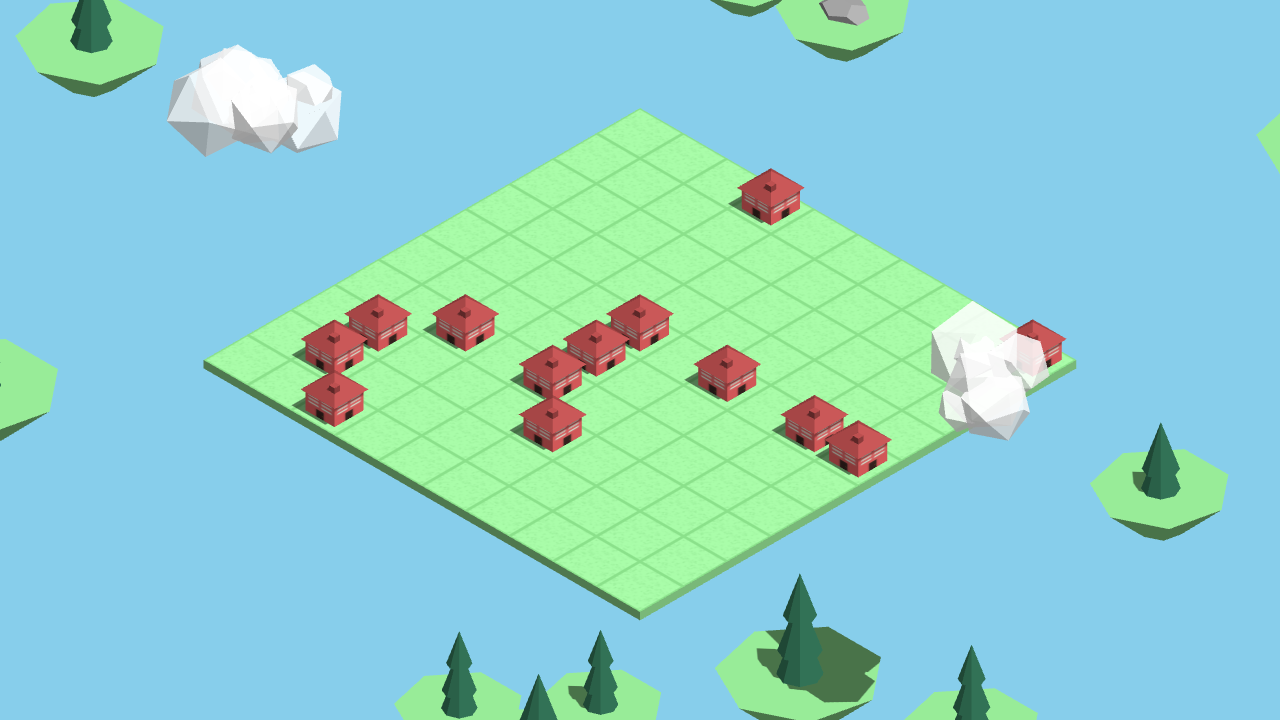
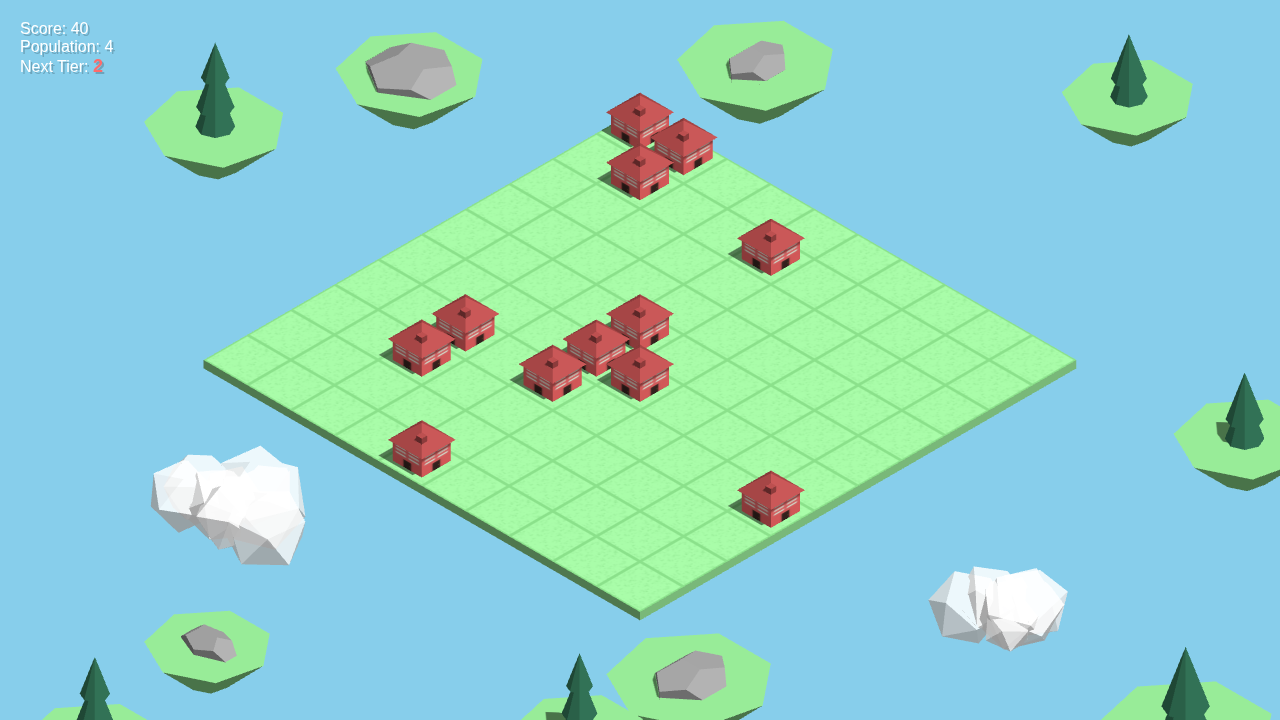
feat: Implement State-Guarded UI HUD
Implemented caching mechanism inside `updateUX()` in `main.js` to construct the HUD and inject it into `<div id="ui">`. This function is hooked into the `animate()` loop, providing an accessible and performant visual UI overlay that reflects the game state (Score, Population, Next Tier) without causing redundant repaints.

diff --git a/main.js b/main.js
@@ -1516,6 +1516,29 @@ function resetGame() {
 // Render Loop
 const clock = new THREE.Clock();
 
+let lastScore = -1;
+let lastPop = -1;
+let lastTier = -1;
+
+function updateUX() {
+    const uiElement = document.getElementById('ui');
+    if (!uiElement) return;
+
+    if (city.score !== lastScore || city.buildingCount !== lastPop || gameState.nextTier !== lastTier) {
+        lastScore = city.score;
+        lastPop = city.buildingCount;
+        lastTier = gameState.nextTier;
+
+        uiElement.innerHTML = `
+            <div aria-live="polite" aria-atomic="true">
+                <div>Score: ${lastScore}</div>
+                <div>Population: ${lastPop}</div>
+                <div>Next Tier: <span id="next-tier">${lastTier}</span></div>
+            </div>
+        `;
+    }
+}
+
 function animate() {
     requestAnimationFrame(animate);
 
@@ -1526,7 +1549,7 @@ function animate() {
     particleSystem.update(dt);
     cloudSystem.update(dt);
 
-    // Update UI
+    updateUX();
 
     renderer.render(scene, camera);
 }

diff --git a/.Jules/nova_paths.md b/.Jules/nova_paths.md
@@ -1,17 +1,21 @@
-# Phase 2: Architectural Approaches
+# Nova Architectural Paths: HUD Implementation (Forced Variance)
 
-## Problem 1: Phantom Buildings
-*Absorbed buildings remain logically in the grid during their 0.5s slide animation.*
+## Approach 1: State-Guarded Template Literal Injection (The Recommended Minimalist Path)
+**Concept:** Use a single state tracker variable to hold the last rendered values (score, population, nextTier). Inside the `animate()` loop, check if the current game state differs from the cached state. If so, update the `innerHTML` of the `<div id="ui">` with a single template literal containing the complete markup for Score, Population, and Next Tier.
+**Pros:**
+- Extremely simple (single DOM query, ~15 lines of code).
+- State-guarded optimization prevents redundant DOM repaints every frame (60fps).
+- Easily supports accessibility attributes (e.g., `aria-live`).
+**Cons:** Re-renders the entire `#ui` block rather than targeting individual text nodes.
 
-* **Path 1 (Standard):** Manually clear `city.grid[x][z]` and decrement `buildingCount` within the merge loop. Call `scene.remove()` upon animation completion. (Pros: Clear intent. Cons: Duplicates `city.remove` logic.)
-* **Path 2 (Minimalist - Selected):** Detach the mesh (`city.meshGrid[x][z] = null`) and immediately call `city.remove(x, z)`. This clears logical data synchronously but skips the default shrink animation, allowing the GSAP slide to play before `scene.remove()`. (Pros: Zero logic duplication, perfectly surgical.)
-* **Path 3 (Lateral):** Add `isMerging = true` to cell data. Filter out merging cells in all raycasting and game tick loops. (Pros: Preserves data until visually gone. Cons: Spreads state-checking logic across 4 different functions.)
+## Approach 2: Targeted DOM Node Initialization & Updates (Standard Path)
+**Concept:** During game initialization, fetch `<div id="ui">` and programmatically create and append individual HTML elements for Score (`<span id="score">`), Population (`<span id="population">`), and Next Tier (`<span id="next-tier">`). Inside the `animate()` loop, directly update their `innerText` or `textContent` properties.
+**Pros:** Highly targeted updates; doesn't wipe sibling DOM elements.
+**Cons:** Requires slightly more boilerplate code (storing element references globally or in a scoped object) and takes up more lines of code.
 
-## Problem 2: Obstacle Removal
-*Adjacent rocks (tier -2) are not cleared when a match-3 occurs.*
+## Approach 3: Lateral Canvas Overlay (Lateral/Creative Path)
+**Concept:** Abandon the `<div id="ui">` DOM element entirely. Instead, create a transparent 2D Canvas positioned absolutely over the Three.js WebGL rendering context. Use the Canvas API (`ctx.fillText`, `ctx.fillStyle`) to render the text frame-by-frame inside the `animate()` loop.
+**Pros:** Absolute alignment with the game's internal 60FPS tick, bypasses DOM rendering entirely.
+**Cons:** Overkill for simple text. Breaks out-of-the-box accessibility (screen readers can't read canvas pixels) and contradicts the existing CSS setup in `index.html`.
 
-* **Path 1 (Standard - Selected):** Iterate through the final `cluster` array before animating. Check 4 orthogonal neighbors for `tier === -2`. Collect unique obstacle coordinates in a Set and call `city.remove()` on them. (Pros: Highly localized, easy to reason about.)
-* **Path 2 (Minimalist):** Inject the obstacle check directly into the existing BFS `while` loop. If a neighbor is `tier === -2`, destroy it instantly. (Pros: Single loop pass. Cons: Might over-destroy if the cluster size ends up being < 3, requiring rollback logic.)
-* **Path 3 (Lateral):** Modify `updateRoads()` to act as a generic "grid cleanup" sweep that runs after every merge, sweeping for unattached obstacles. (Pros: Consolidates cleanup. Cons: Doesn't make logical sense for rocks, changes mechanics entirely.)
-
-**Decision:** I am proceeding with Path 2 for Phantom Buildings and Path 1 for Obstacle Removal to maintain surgical precision and strict adherence to the zero-build-step, vanilla JS constraints.
+**Decision:** I will proceed with **Approach 1** because it aligns with Pop City's constraints of absolute simplicity, avoids unnecessary abstractions, and implements the required optimization via a state-guard mechanism to prevent DOM thrashing inside the animation loop.

diff --git a/.Jules/nova_pr_manifest.md b/.Jules/nova_pr_manifest.md
@@ -1,0 +1,19 @@
+- PR Title: feat: Implement State-Guarded UI HUD
+- The Problem Solved: The game was missing the Heads-Up Display showing Score, Population, and Next Tier as required by `GOAL.png`. This adds the UI to `index.html` and wires it to the game loop in `main.js`.
+- Visuals:
+  - [Current Interface Verification](/home/jules/verification/screenshots/verification.png) compared with `GOAL.png`.
+- Implementation Journey:
+  - [Step] Evaluated DOM elements present in index.html (verified `#ui` container).
+  - [Step] Checked game state logic in `main.js` (`city.score`, `city.buildingCount`, `gameState.nextTier`).
+  - [Step] Wrote architectural proposal satisfying Forced Variance.
+  - [Step] Implemented `updateUX()` in `main.js` with caching to prevent excessive repaints.
+  - [Step] Wired `updateUX()` into the main `animate()` loop.
+  - [Step] Wrote Playwright verification script to visually test and record UI behavior.
+- Tradeoffs & Assumptions:
+  - Evaluated three paths: State-guarded DOM updates, targeted Node tracking, and Canvas text overlay.
+  - Chosen Route: State-guarded DOM updates (Approach 1). Why: Most lightweight in terms of line count, easiest to add a11y attributes like `aria-live`, prevents 60fps DOM thrashing through simple variable caching.
+- Testing Instructions:
+  - Open `index.html` in a modern browser.
+  - Start playing the game by clicking on the grid.
+  - Observe that the Score, Population, and Next Tier fields in the top left corner update accurately based on your actions.
+- Action Item: `git checkout -b feature/nova-ui-hud` then commit and open PR.
